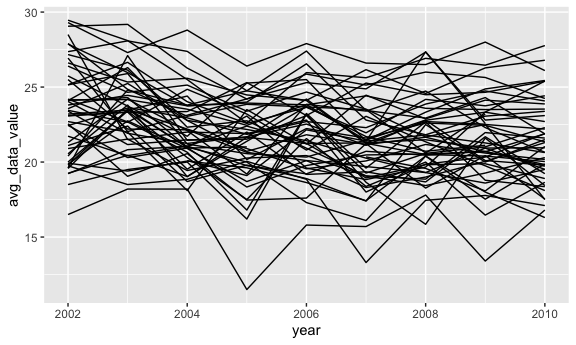
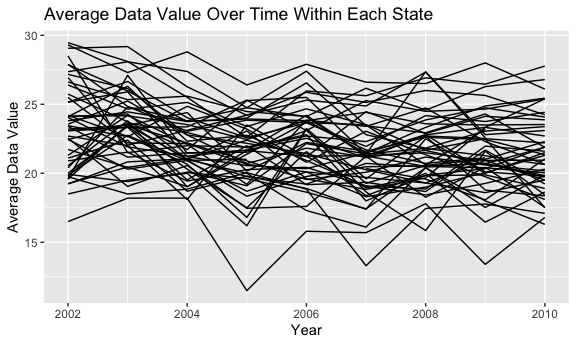
updating problems 1 and 2

diff --git a/p8105_hw3_lcc2181.md b/p8105_hw3_lcc2181.md
@@ -91,10 +91,22 @@ instacart %>%
   summarize(number_of_items = n()) %>% 
   filter(number_of_items > 10000) %>% 
   ggplot(aes(x = aisle_id, y = number_of_items)) +
-  geom_point()
+  geom_point() +
+  labs(
+    title = "Number of Items Ordered In Each Aisle",
+    x = "Aisle ID",
+    y = "Number of Items Ordered"
+  )
 ```
 
 <img src="p8105_hw3_lcc2181_files/figure-gfm/unnamed-chunk-4-1.png" width="90%" />
+
+In this plot, I can see the number of items ordered across the different
+aisles, limited to only aisles in which over 10,000 items were ordered.
+There are two aisles that appear to be outliers as they have a much
+greater numer of items ordered in those aisles compared with any other
+aisle (for both of these aisles, the number of items ordered is over
+140,000).
 
 Making a table showing the three most popular items in each of the
 aisles.
@@ -139,6 +151,17 @@ instacart %>%
 | packaged vegetables fruits | Organic Raspberries                           |     5546 |
 | packaged vegetables fruits | Organic Blueberries                           |     4966 |
 
+This table shows the three most popular items in each of the aisles
+“baking ingredients”, “dog food care”, and “packaged vegetables fruits”.
+In the “baking ingredients” aisle, the most popular item is Light Brown
+Sugar followed by Pure Baking Soda and then Cane Sugar. In the “dog food
+care” aisle, the most popular item is Snack Sticks Chicken & Rice Recipe
+Dog Treats. The second most popular item in the dog food aisle is
+Organix Chicken & Brown Rice Recipe and the third most popular item is
+Small Dog Biscuits. In the “packaged vegetables fruits” aisle, the three
+most popular items are Organic Baby Spinach, Organic Raspberries, and
+Organic Blueberries.
+
 Making a table showing mean hour of day at which Pink Lady Apples and
 Coffee Ice Cream are ordered each day of week
 
@@ -175,6 +198,12 @@ instacart %>%
 |:-----------------|---------:|---------:|---------:|----------:|---------:|---------:|---------:|
 | Coffee Ice Cream | 13.77419 | 14.31579 | 15.38095 |  15.31818 | 15.21739 | 12.26316 | 13.83333 |
 | Pink Lady Apples | 13.44118 | 11.36000 | 11.70213 |  14.25000 | 11.55172 | 12.78431 | 11.93750 |
+
+This table shows the mean hour of the day at which Pink Lady Apples and
+Coffee Ice Cream are ordered for each day of the week. For every day of
+the week except for Friday, the mean hour of day in which Pink Lady
+Applies are ordered is earlier than the mean hour of the day in which
+Coffee Ice Cream is ordered.
 
 ## Problem 2
 
@@ -285,12 +314,23 @@ brfss_excellent =
 ``` r
 brfss_excellent %>% 
   ggplot(aes(x = year, y = avg_data_value, group = state)) +
-  geom_line()
+  geom_line() +
+  labs(
+    title = "Average Data Value Over Time Within Each State",
+    x = "Year",
+    y = "Average Data Value"
+  )
 ```
 
     ## Warning: Removed 3 row(s) containing missing values (geom_path).
 
 <img src="p8105_hw3_lcc2181_files/figure-gfm/unnamed-chunk-10-1.png" width="90%" />
+
+The plot shows the average data value across the years 2002 to 2010 for
+each state. Each state’s average data value is plotted in a separate
+line. From this plot, we can see that the lowest average data value
+occurred in 2005. Overall, it appears that the majority of average data
+values during this period were between 20 and 30.
 
 Making a two-panel plot (for the years 2006 and 2010) showing
 distribution of data\_value for responses among locations in NY state
@@ -305,11 +345,26 @@ and adding `facet_grid` to split into a two-panel plot by year (2006 and
 brfss_df %>% 
   filter(state == "NY", year %in% c(2006, 2010)) %>% 
   ggplot(aes(x = response, y = data_value)) +
-  geom_point() +
-  facet_grid(. ~ year)
+  geom_boxplot() +
+  facet_grid(. ~ year) +
+  labs(
+    title = "Distribution of Data Value for Responses among Locations in NY",
+    x = "Response",
+    y = "Data Value"
+  )
 ```
 
 <img src="p8105_hw3_lcc2181_files/figure-gfm/unnamed-chunk-11-1.png" width="90%" />
+
+This plot shows the response distribution of data values for responses
+using a boxplot. Responses from 2006 and 2010 are separated into two
+panels. In each panel, we can see the boxplot for each response value
+(ranging from “Poor” to “Excellent”). In each boxplot, we can see the
+median data value as indicated by the line on the box plot as well as
+the distribution of responses, including the min and max, as indicated
+by the lines above and below the box. In both 2006 and 2010, responses
+of “Poor” had the lower median data value compared to other any other
+response.
 
 ## Problem 3
 
